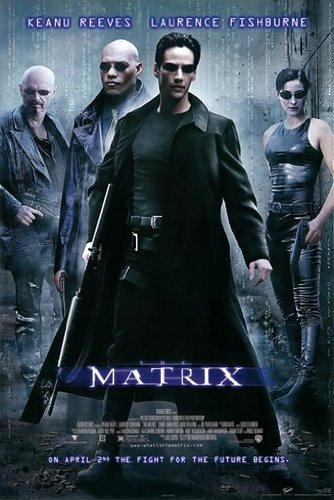
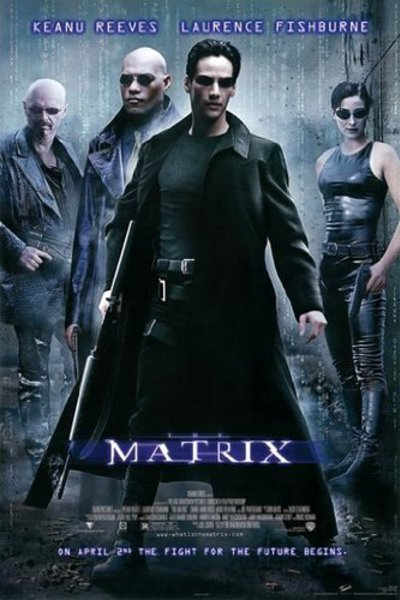
Fixed bug, images were not cropping right due to a type in the cropping

diff --git a/app/models/movie.rb b/app/models/movie.rb
@@ -1,6 +1,6 @@
 class Movie < ActiveRecord::Base
   belongs_to :user
 
-  has_attached_file :image, styles: { medium: "400x600#>" }
+  has_attached_file :image, styles: { medium: "400x600#" }
   validates_attachment_content_type :image, content_type: /\Aimage\/.*\Z/
 end
